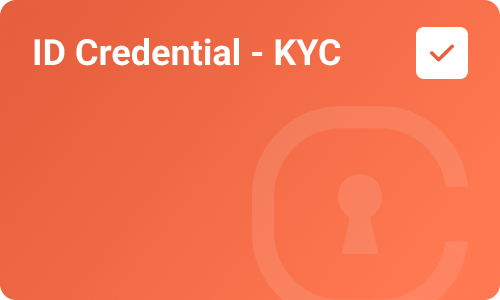
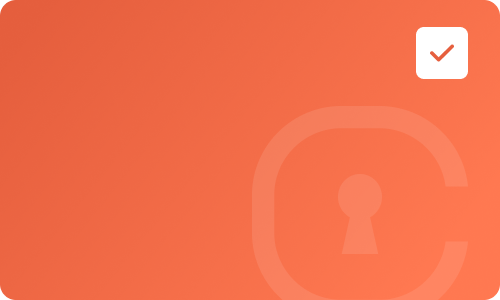
feat: Add polygon card with dynamic title and subtitle #1733

Changed region(s): [[0.06, 0.12, 0.48, 0.24], [0.51, 0.12, 0.69, 0.24]]

diff --git a/lib/dashboard/home/tab_bar/credentials/widgets/credential_widget/credential_base_widget.dart b/lib/dashboard/home/tab_bar/credentials/widgets/credential_widget/credential_base_widget.dart
@@ -9,6 +9,7 @@ class CredentialBaseWidget extends StatelessWidget {
     super.key,
     required this.cardBackgroundImagePath,
     this.aspectRatio = Sizes.credentialAspectRatio,
+    this.title,
     this.issuerName,
     this.value,
     this.issuanceDate,
@@ -17,6 +18,7 @@ class CredentialBaseWidget extends StatelessWidget {
 
   final String cardBackgroundImagePath;
   final double aspectRatio;
+  final String? title;
   final String? issuerName;
   final String? value;
   final String? issuanceDate;
@@ -32,6 +34,21 @@ class CredentialBaseWidget extends StatelessWidget {
         child: CustomMultiChildLayout(
           delegate: CredentialBaseWidgetDelegate(position: Offset.zero),
           children: [
+            if (title != null)
+              LayoutId(
+                id: 'title',
+                child: FractionallySizedBox(
+                  widthFactor: 0.75,
+                  heightFactor: 0.19,
+                  child: Container(
+                    alignment: Alignment.centerLeft,
+                    child: MyText(
+                      title!,
+                      style: Theme.of(context).textTheme.identitiyBaseTitleText,
+                    ),
+                  ),
+                ),
+              ),
             if (issuerName != null && issuerName!.isNotEmpty)
               LayoutId(
                 id: 'provided-by',
@@ -134,6 +151,14 @@ class CredentialBaseWidgetDelegate extends MultiChildLayoutDelegate {
 
   @override
   void performLayout(Size size) {
+    if (hasChild('title')) {
+      layoutChild('title', BoxConstraints.loose(size));
+      positionChild(
+        'title',
+        Offset(size.width * 0.06, size.height * 0.08),
+      );
+    }
+
     if (hasChild('provided-by')) {
       layoutChild('provided-by', BoxConstraints.loose(size));
       positionChild(

diff --git a/lib/dashboard/home/tab_bar/credentials/widgets/credential_widget/civic_pass_credential_widget.dart b/lib/dashboard/home/tab_bar/credentials/widgets/credential_widget/civic_pass_credential_widget.dart
@@ -1,5 +1,6 @@
 import 'package:altme/app/app.dart';
 import 'package:altme/dashboard/dashboard.dart';
+import 'package:credential_manifest/credential_manifest.dart';
 import 'package:flutter/material.dart';
 
 class CivicPassCredentialWidget extends StatelessWidget {
@@ -13,9 +14,23 @@ class CivicPassCredentialWidget extends StatelessWidget {
   @override
   Widget build(BuildContext context) {
     // final civicPassCredentialModel = credentialModel
-    //     .credentialPreview.credentialSubjectModel as CivicPassCredentialModel;
+    //    .credentialPreview.credentialSubjectModel as CivicPassCredentialModel;
+
+    final DisplayMapping? displayMapping = credentialModel
+        .credentialManifest!.outputDescriptors?.first.display?.title;
+
+    var title = '';
+
+    if (displayMapping is DisplayMappingText) {
+      title = displayMapping.text;
+    }
+
+    if (displayMapping is DisplayMappingPath) {
+      title = displayMapping.fallback ?? '';
+    }
 
     return CredentialBaseWidget(
+      title: title,
       cardBackgroundImagePath: ImageStrings.civicPassCard,
       issuerName: 'CIVIC',
       value: 'Your ID is verified',

diff --git a/lib/theme/app_theme/app_theme.dart b/lib/theme/app_theme/app_theme.dart
@@ -815,6 +815,12 @@ extension CustomTextTheme on TextTheme {
         color: const Color(0xffFFFFFF),
       );
 
+  TextStyle get identitiyBaseTitleText => GoogleFonts.roboto(
+        fontSize: 36,
+        fontWeight: FontWeight.w600,
+        color: const Color(0xffFFFFFF),
+      );
+
   TextStyle get copyToClipBoard => GoogleFonts.nunito(
         fontSize: 18,
         fontWeight: FontWeight.w400,
